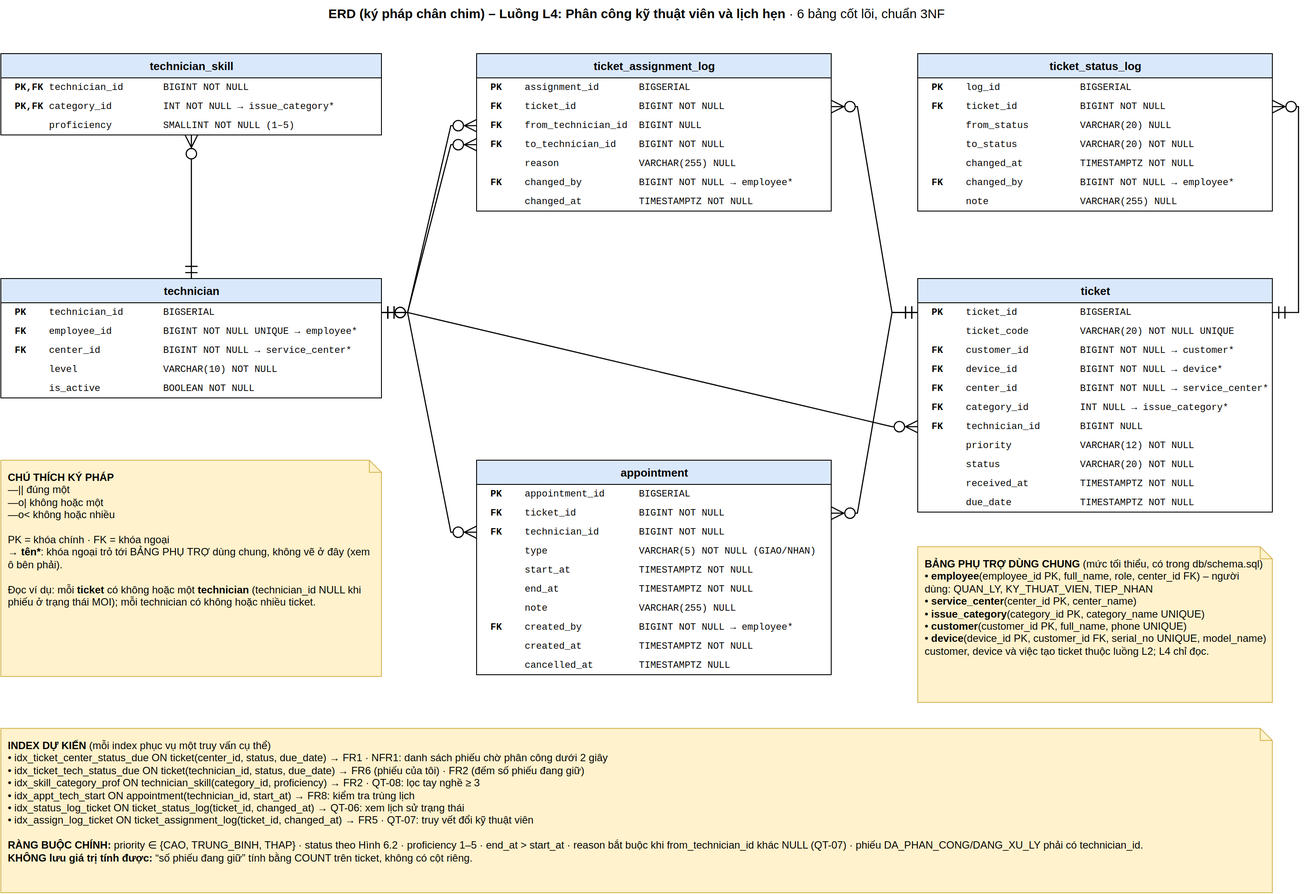
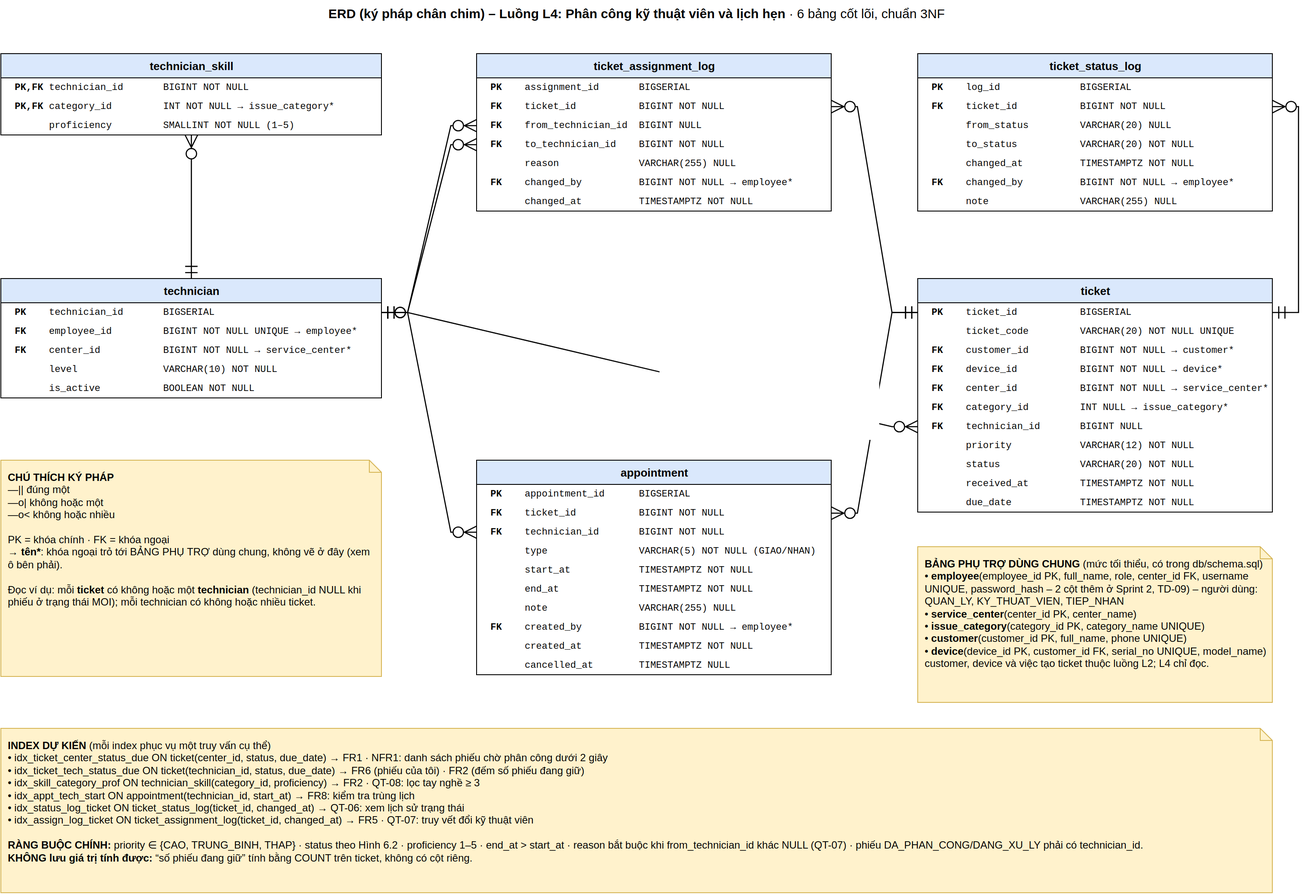
docs: README muc 2 3 5 6, TD-09 den TD-16, ket qua chay buoi 10

Changed region(s): [[0.6812, 0.6193, 0.9598, 0.7431]]

diff --git a/README.md b/README.md
@@ -8,56 +8,78 @@
 Hệ thống giúp quản lý trung tâm bảo hành của Mekong Mobile phân công phiếu bảo hành cho kỹ thuật viên theo tay nghề, trung tâm và khối lượng công việc hiện tại, thay cho việc phân công thủ công theo trí nhớ. Kỹ thuật viên xem được phiếu của mình theo hạn cam kết; nhân viên tiếp nhận đặt lịch hẹn giao – nhận máy không trùng lịch.
 
 ## 2. Yêu cầu môi trường
-- Node.js 20 LTS trở lên (đang dùng v24)
+- Node.js 20 LTS trở lên (đang dùng v24), npm 10
 - PostgreSQL 16 (đang chạy, biết mật khẩu user `postgres`)
-- Biến môi trường: xem `.env.example`
+- Trình duyệt Chrome / Edge bản mới (giao diện React)
+- Biến môi trường: xem `.env.example` (`DB_*`, `JWT_SECRET`, `DEMO_PASSWORD`, `PORT`)
 
 ## 3. Hướng dẫn chạy
 Chạy lần lượt từng lệnh trong thư mục gốc của repo (Git Bash):
 
-1. Cài thư viện: `npm install`
-2. Tạo file cấu hình: `cp .env.example .env` rồi mở `.env`, điền `DB_PASSWORD` (mật khẩu PostgreSQL) và `JWT_SECRET` (chuỗi bất kỳ)
-3. Tạo cơ sở dữ liệu trống: `psql -U postgres -c "CREATE DATABASE cdtn1_l4"`
-4. Tạo bảng: `npm run db:migrate`
-5. Nạp dữ liệu mẫu: `npm run db:seed`
-6. Chạy kiểm thử: `npm test`
-7. Chạy API: `npm start` → mở http://localhost:3000/health
+1. Cài thư viện API: `npm install`
+2. Cài thư viện giao diện: `npm run web:install`
+3. Tạo file cấu hình: `cp .env.example .env` rồi mở `.env`, điền `DB_PASSWORD` (mật khẩu PostgreSQL) và `JWT_SECRET` (chuỗi bất kỳ)
+4. Tạo cơ sở dữ liệu trống (tên lấy từ `DB_NAME` trong `.env`): `npm run db:create`
+5. Tạo bảng: `npm run db:migrate`
+6. Nạp dữ liệu mẫu Mekong Mobile và tài khoản: `npm run db:seed`
+7. Chạy kiểm thử: `npm test` (không cần PostgreSQL) và `npm run test:db` (test đồng thời, cần PostgreSQL)
+8. Build giao diện: `npm run web:build`
+9. Chạy: `npm start` → mở http://localhost:3000 (giao diện) · http://localhost:3000/health (kiểm tra API)
 
-Bước 4 và 5 chạy lại lần hai không lỗi và không nhân đôi dữ liệu (migration đã chạy được ghi trong bảng `schema_migrations`; seed dùng `ON CONFLICT DO NOTHING`).
+**Dữ liệu mẫu:** 6 trung tâm, 38 kỹ thuật viên, 381 khách hàng, 154 phiếu. Khách hàng lấy từ `data/mau/customers_raw.csv` (dữ liệu mẫu Mekong Mobile trong repo mẫu của giảng viên), đã chuẩn hóa số điện thoại và loại trùng; xem `data/README.md`. Thời điểm tiếp nhận tính lùi từ lúc nạp nên danh sách luôn có phiếu sắp hạn và quá hạn.
 
-**Lấy token để gọi API** (mở cửa sổ Git Bash thứ hai, API vẫn chạy ở cửa sổ đầu):
+Bước 5 và 6 chạy lại lần hai không lỗi và không nhân đôi dữ liệu (migration đã chạy được ghi trong bảng `schema_migrations`; seed dùng `ON CONFLICT DO NOTHING`).
+Muốn đưa dữ liệu mẫu về như ban đầu (ví dụ sau khi đã bấm thử phân công): `npm run db:reset -- --yes` – lệnh này **xóa toàn bộ dữ liệu** của CSDL `cdtn1_l4` rồi migrate + seed lại, và từ chối chạy nếu tên CSDL không bắt đầu bằng `cdtn1`.
+
+Khi sửa giao diện: chạy `npm start` ở một cửa sổ và `npm run web:dev` ở cửa sổ khác, mở http://localhost:5173 (tự tải lại khi sửa mã, `/api` được chuyển sang cổng 3000).
+
+**Tài khoản mẫu** (mật khẩu chung là giá trị `DEMO_PASSWORD` trong `.env`):
+
+| Tên đăng nhập | Họ tên | Vai trò | Dùng để thử |
+|---|---|---|---|
+| `tram` | Trần Thị Trâm | QUAN_LY – Quận 10 | Danh sách phiếu, gợi ý, phân công, đổi kỹ thuật viên |
+| `lan` | Nguyễn Thị Lan | TIEP_NHAN – Quận 10 | Đặt lịch hẹn, thấy số điện thoại dạng che |
+| `dung`, `khoi`, `tung` | Lê Văn Dũng, Phạm Minh Khôi, Võ Thanh Tùng | KY_THUAT_VIEN – Quận 10 | Phiếu của tôi |
+| `phat` | Huỳnh Văn Phát | KY_THUAT_VIEN, chưa có hồ sơ kỹ thuật viên | Thử báo lỗi 403 |
+| `hanh` | Đỗ Thị Hạnh | QUAN_LY – Cần Thơ | Thử QT-14 (không thấy phiếu Quận 10) |
+| `ql_ag`, `ql_dt`, `ql_vl`, `ql_kg` · `tn_ct`, `tn_ag`, `tn_dt`, `tn_vl`, `tn_kg` | (sinh từ dữ liệu mẫu) | QUAN_LY / TIEP_NHAN các trung tâm An Giang, Đồng Tháp, Vĩnh Long, Kiên Giang, Cần Thơ | Thử dữ liệu từng trung tâm |
+
+**Gọi API bằng curl** (lấy token bằng đăng nhập, hoặc `npm run token -- <mã nhân viên>`):
 
 ```bash
-npm run token -- 1   # Trần Thị Trâm – QUAN_LY, trung tâm Quận 10
-npm run token -- 2   # Nguyễn Thị Lan – TIEP_NHAN, trung tâm Quận 10
-npm run token -- 7   # Đỗ Thị Hạnh – QUAN_LY, trung tâm Cần Thơ (thử QT-14)
+curl -X POST -H "Content-Type: application/json" -d '{"username":"tram","password":"<DEMO_PASSWORD>"}' http://localhost:3000/api/auth/login
+curl -H "Authorization: Bearer <TOKEN>" "http://localhost:3000/api/tickets?status=MOI"
+curl -H "Authorization: Bearer <TOKEN>" http://localhost:3000/api/tickets/1/technician-suggestions
+curl -X POST -H "Content-Type: application/json" -H "Authorization: Bearer <TOKEN>" -d '{"technicianId":1}' http://localhost:3000/api/tickets/1/assignment
 ```
 
-**Ví dụ gọi API** (thay `<TOKEN>` bằng chuỗi vừa in ra):
+**Màn hình (theo wireframe BT1, `docs/design.md` mục 3):**
 
-```bash
-# Danh sách kỹ thuật viên của trung tâm (quản lý)
-curl -H "Authorization: Bearer <TOKEN>" http://localhost:3000/api/technicians
-# Đặt lịch hẹn cho phiếu 3 (tiếp nhận) – trùng lịch 09:00-09:45 sẽ bị từ chối 409
-curl -X POST -H "Content-Type: application/json" -H "Authorization: Bearer <TOKEN>" \
-  -d '{"type":"NHAN","startAt":"2026-12-01T10:00:00+07:00","endAt":"2026-12-01T10:30:00+07:00"}' \
-  http://localhost:3000/api/tickets/3/appointments
-```
+| Màn hình | Đường dẫn | Vai trò | Wireframe · Endpoint |
+|---|---|---|---|
+| Đăng nhập | `/login` | mọi vai trò | E0 |
+| Danh sách phiếu (chờ phân công / đã phân công) | `/tickets` | QUAN_LY | Wireframe 1 · E1 |
+| Phân công / đổi kỹ thuật viên | `/tickets/:id/assign` | QUAN_LY | Wireframe 2 · E2, E3, E4 |
+| Chọn phiếu và đặt lịch hẹn | `/appointments`, `/tickets/:id/appointment` | TIEP_NHAN | Wireframe 3 · E1, E6 |
+| Phiếu của tôi | `/my-tickets` | KY_THUAT_VIEN | E5 |
 
-**Endpoint đã có (Sprint 1):**
+Mỗi màn hình được bọc bằng component `DataState` (`web/src/components/DataState.jsx`), đủ ba trạng thái: đang tải (khung xương), rỗng (câu giải thích + gợi ý), lỗi (chuyện gì · làm gì tiếp + nút Thử lại). Token lưu trong `sessionStorage`, hết hạn hoặc sai thì tự về trang đăng nhập.
+
+**Endpoint đã có:**
 
 | Phương thức · Đường dẫn | Vai trò | Chức năng |
 |---|---|---|
-| `GET /api/technicians` | QUAN_LY | Danh sách kỹ thuật viên của trung tâm (`?includeInactive=true` để xem cả người đã ngừng) |
-| `GET /api/technicians/:id` | QUAN_LY | Xem một kỹ thuật viên kèm tay nghề |
-| `POST /api/technicians` | QUAN_LY | Tạo hồ sơ kỹ thuật viên `{ employeeId, level, skills }` |
-| `PUT /api/technicians/:id` | QUAN_LY | Sửa `level`, `isActive`, `skills` |
-| `DELETE /api/technicians/:id` | QUAN_LY | Ngừng làm việc (xóa mềm, QT-13) |
+| `POST /api/auth/login` | không cần token | E0 – Đăng nhập, trả JWT |
+| `GET /api/tickets?status=MOI\|DA_PHAN_CONG` | QUAN_LY; TIEP_NHAN chỉ `DA_PHAN_CONG` | E1 – Danh sách phiếu theo hạn cam kết, phân trang |
+| `GET /api/tickets/:ticketId` | mọi vai trò cùng trung tâm | Xem một phiếu |
+| `GET /api/tickets/:ticketId/technician-suggestions` | QUAN_LY | E2 – Gợi ý kỹ thuật viên (QT-08) |
+| `POST /api/tickets/:ticketId/assignment` | QUAN_LY | E3 – Phân công (transaction, NFR3) |
+| `PUT /api/tickets/:ticketId/assignment` | QUAN_LY | E4 – Đổi kỹ thuật viên, bắt buộc lý do (QT-07) |
+| `GET /api/technicians/me/tickets` | KY_THUAT_VIEN | E5 – Phiếu của tôi |
+| `GET`, `POST`, `PUT`, `DELETE /api/technicians` | QUAN_LY | CRUD kỹ thuật viên (xóa mềm, QT-13) |
 | `POST /api/tickets/:ticketId/appointments` | TIEP_NHAN | E6 – Đặt lịch hẹn (RB-02, RB-03) |
 | `GET /api/tickets/:ticketId/appointments` | mọi vai trò | Lịch hẹn của một phiếu |
-| `GET /api/appointments/:id` | mọi vai trò | Xem một lịch hẹn |
-| `PUT /api/appointments/:id` | TIEP_NHAN, QUAN_LY | Đổi lịch (kiểm lại RB-02, RB-03) |
-| `DELETE /api/appointments/:id` | TIEP_NHAN, QUAN_LY | Hủy lịch hẹn (xóa mềm, QT-13) |
+| `GET`, `PUT`, `DELETE /api/appointments/:id` | TIEP_NHAN, QUAN_LY (sửa, hủy) | Xem / đổi lịch / hủy lịch hẹn (xóa mềm) |
 
 ## 4. Cấu trúc thư mục
 Mỗi lớp trong sơ đồ kiến trúc (`docs/architecture.drawio`) là một thư mục trong `src/`:
@@ -66,21 +88,28 @@ Mỗi lớp trong sơ đồ kiến trúc (`docs/architecture.drawio`) là một 
 - `src/validators/` – tầng 1: kiểm định dạng dữ liệu vào
 - `src/services/` – lớp nghiệp vụ: toàn bộ quy tắc QT/RB, không biết HTTP
 - `src/repositories/` – lớp truy cập dữ liệu: chỉ đọc/ghi PostgreSQL
+- `src/contracts/` – hợp đồng dữ liệu ở ranh giới service → trình bày (`toTicketView`, che số điện thoại QT-15)
 - `src/middlewares/` – xác thực JWT, phân quyền, dịch lỗi sang mã HTTP
 - `src/config/db.js` – kết nối PostgreSQL, hàm chạy transaction
 - `db/migrations/` – tạo bảng (đúng DDL đã nộp ở BT1, `db/schema.sql`); `db/seeds/` – dữ liệu mẫu
-- `scripts/` – migrate, seed, tạo token thử
-- `tests/` – unit test lớp service và validator (dùng repository giả, không cần CSDL)
+- `scripts/` – tạo CSDL, migrate, seed, sinh seed từ dữ liệu mẫu, reset, tạo token thử
+- `data/mau/` – dữ liệu mẫu Mekong Mobile (CSV thô) dùng sinh `db/seeds/003_mekong_mau.sql`
+- `web/` – giao diện React (Vite): `src/api/client.js` là lớp duy nhất gọi API, `src/pages/` là các màn hình
+- `tests/` – unit test (service, validator, hợp đồng, phân quyền; không cần CSDL); `tests/db/` – test đồng thời trên PostgreSQL thật
 - `docs/` – tài liệu BT1, `thay-doi-thiet-ke.md`, `ai-disclosure.md`
 
 ## 5. Kiểm thử
-`npm test` – 14 unit test, không cần PostgreSQL:
+`npm test` – 49 unit test, không cần PostgreSQL. `npm run test:db` – 4 test đồng thời trên PostgreSQL thật.
 
 | Loại | Test |
 |---|---|
-| Luồng đúng | TC-01 đặt lịch hẹn hợp lệ · TC-08 đổi lịch, hủy lịch · TC-09 tạo kỹ thuật viên |
-| Giá trị biên | TC-02 bắt đầu đúng lúc lịch cũ kết thúc · TC-03 trễ 1 phút bị trùng · TC-04 23:30 thứ Bảy / 00:00 Chủ nhật |
-| Dữ liệu sai | TC-05 thời gian sai, quá khứ · TC-06 phiếu chưa phân công · TC-07, TC-11 khác trung tâm · TC-10 sai vai trò · TC-12–TC-14 thiếu trường, sai định dạng |
+| Luồng đúng | TC-01 đặt lịch hẹn · TC-08 đổi lịch, hủy lịch · TC-09 tạo kỹ thuật viên · TC-16 phân công · TC-22 đổi kỹ thuật viên · TC-30 đăng nhập · TC-38 đúng vai trò được qua |
+| Giá trị biên | TC-02, TC-03 chạm biên RB-02 · TC-04 23:30 thứ Bảy / 00:00 Chủ nhật · TC-18 tay nghề đúng 3 / 2 (QT-08) · TC-33 pageSize 100 / 101 · TC-43 hai lịch nối tiếp đặt cùng lúc |
+| Dữ liệu sai | TC-05, TC-06, TC-07, TC-10–TC-14 · TC-17 phiếu đã phân công · TC-19, TC-20 kỹ thuật viên / phiếu không hợp lệ · TC-23 lý do dưới 5 ký tự · TC-31 sai mật khẩu · TC-34, TC-35, TC-39 |
+| Chuẩn hóa dữ liệu mẫu | TC-44 số điện thoại +84 / 84 / khoảng trắng · TC-45 giá trị biên 9 và 11 số, dữ liệu hỏng · TC-46 loại khách trùng |
+| Hợp đồng dữ liệu (buổi 9) | TC-26 đủ trường, ISO 8601 · TC-27 ý nghĩa của null · TC-28 che số điện thoại · TC-29 isOverdue |
+| Phân quyền (NFR2) | TC-07, TC-11, TC-20 khác trung tâm → 403 · TC-24, TC-25, TC-28 che số điện thoại · TC-36 sai vai trò → 403 · TC-37 không token → 401 |
+| Đồng thời (NFR3, `test:db`) | TC-40 hai quản lý phân công cùng phiếu → đúng 1 thành công · TC-41 năm lệnh cùng lúc · TC-42 hai lịch chồng lấn cùng lúc → đúng 1 thành công |
 
 ## 6. Trạng thái hiện tại
 - [x] Khởi tạo repo, cấu trúc thư mục, smoke test `/health` (buổi 2)
@@ -89,5 +118,10 @@ Mỗi lớp trong sơ đồ kiến trúc (`docs/architecture.drawio`) là một 
 - [x] Kiến trúc, ERD + DDL, wireframe – hoàn tất Bài tập 1 (buổi 5–6)
 - [x] Sprint 1 (buổi 8): migration + seed, CRUD kỹ thuật viên và lịch hẹn, RB-02, RB-03, 14 unit test
 - [x] Buổi 8: đọc phản hồi BT1 (9.5/10), ghi quyết định điều chỉnh vào `docs/thay-doi-thiet-ke.md` (TD-01 → TD-03); kết quả gọi thử API lưu ở `docs/ket-qua-goi-api-buoi8.md`
-- [ ] Sprint 2: danh sách phiếu chờ phân công (E1), gợi ý kỹ thuật viên (E2), phân công / đổi kỹ thuật viên (E3, E4)
-- [ ] Màn hình React gọi API (3 màn hình theo wireframe), tag `v0.2` (hạn cuối buổi 12)
+- [x] Buổi 10 (Sprint 2): đăng nhập (TD-09), E1–E5, hợp đồng dữ liệu `toTicketView` (TD-13), test phân quyền và test đồng thời
+- [x] Buổi 10: giao diện React 5 màn hình theo 3 wireframe, đủ ba trạng thái đang tải / rỗng / lỗi
+- [x] Buổi 10: luồng chính chạy end-to-end cục bộ qua API (đăng nhập → danh sách → gợi ý → phân công → đặt lịch → phiếu của tôi) – kết quả ở `docs/ket-qua-buoi10.md`
+- [ ] Ảnh chụp giao diện chạy trên máy cá nhân lưu vào `docs/img/`
+- [x] Dữ liệu mẫu Mekong Mobile theo quy mô case study: 6 trung tâm, 38 kỹ thuật viên, 381 khách hàng, 154 phiếu (TD-16)
+- [ ] Phép thử "thư mục trống": clone repo sang thư mục mới, chạy đúng mục 3
+- [ ] Rà soát, sửa lỗi theo buổi 11; báo cáo BT2 kèm đủ DDL 6 bảng (TD-02); tag `v0.2` (hạn cuối buổi 12)

diff --git a/docs/ket-qua-buoi10.md b/docs/ket-qua-buoi10.md
@@ -1,0 +1,132 @@
+# Kết quả buổi 10 – luồng chính chạy end-to-end cục bộ
+
+Chạy ngày 24/10/2026 10:03 trên máy cá nhân (Node v24.18.0, PostgreSQL 16). Dữ liệu mẫu Mekong Mobile nạp bằng `npm run db:reset` (migration 001, 002 + seed 001–003: 6 trung tâm, 38 kỹ thuật viên, 381 khách hàng, 154 phiếu). Token và mật khẩu được thay bằng `<...>`.
+
+Luồng chính (UC1 → UC2 → UC3 → UC6 → UC5): quản lý đăng nhập → xem phiếu chờ phân công → xem gợi ý → phân công → tiếp nhận đặt lịch hẹn → kỹ thuật viên xem phiếu của mình.
+
+## 1. Gọi API theo luồng chính
+
+### E0 – Đăng nhập quản lý (tram)
+```
+$ curl -X POST -H Content-Type: application/json -d {"username":"tram","password":"<DEMO_PASSWORD>"} http://localhost:3000/api/auth/login
+{"data":{"token":"<TOKEN>","user":{"employeeId":1,"fullName":"Trần Thị Trâm","role":"QUAN_LY","centerId":1}}}
+[HTTP 200]
+```
+
+### E0 – Sai mật khẩu → 401
+```
+$ curl -X POST -H Content-Type: application/json -d {"username":"tram","password":"sai-mat-khau"} http://localhost:3000/api/auth/login
+{"error":{"code":"INVALID_CREDENTIALS","message":"Tên đăng nhập hoặc mật khẩu không đúng","details":[]}}
+[HTTP 401]
+```
+
+### E1 – Phiếu chờ phân công của trung tâm Quận 10, trang 1 (sắp theo hạn cam kết, total = tổng số phiếu)
+```
+$ curl -H Authorization: Bearer <TOKEN_QUAN_LY> http://localhost:3000/api/tickets?status=MOI&pageSize=5
+{"data":{"items":[{"ticketId":1,"ticketCode":"BH-000118/2026","customerName":"Trần Văn Bình","customerPhone":"0912345678","deviceName":"Mekong Tab 8","category":"PIN","priority":"TRUNG_BINH","status":"MOI","receivedAt":"2026-10-05T14:30:00+07:00","dueDate":"2026-10-08T14:30:00+07:00","technician":null,"isOverdue":true},{"ticketId":2,"ticketCode":"BH-000120/2026","customerName":"Lê Thị Mai","customerPhone":"0987654321","deviceName":"Mekong M3","category":null,"priority":"THAP","status":"MOI","receivedAt":"2026-10-05T10:00:00+07:00","dueDate":"2026-10-10T10:00:00+07:00","technician":null,"isOverdue":true},{"ticketId":127,"ticketCode":"BH-000226/2026","customerName":"Phạm Anh Oanh","customerPhone":"0377840879","deviceName":"Mekong A12 64GB","category":"MAN_HINH","priority":"CAO","status":"MOI","receivedAt":"2026-10-21T17:03:50+07:00","dueDate":"2026-10-22T17:03:50+07:00","technician":null,"isOverdue":true},{"ticketId":125,"ticketCode":"BH-000224/2026","customerName":"Phạm Minh Linh","customerPhone":"0331208113","deviceName":"Mekong Note 11 128GB","category":"MAN_HINH","priority":"CAO","status":"MOI","receivedAt":"2026-10-21T19:25:50+07:00","dueDate":"2026-10-22T19:25:50+07:00","technician":null,"isOverdue":true},{"ticketId":141,"ticketCode":"BH-000240/2026","customerName":"Dương Gia Mai","customerPhone":"0889451333","deviceName":"Mekong A32 128GB","category":"NUOC_VAO","priority":"CAO","status":"MOI","receivedAt":"2026-10-22T11:55:50+07:00","dueDate":"2026-10-23T11:55:50+07:00","technician":null,"isOverdue":true}],"page":1,"pageSize":5,"total":21}}
+[HTTP 200]
+```
+
+### E2 – Gợi ý kỹ thuật viên cho phiếu 1 (nhóm PIN, tay nghề ≥ 3)
+```
+$ curl -H Authorization: Bearer <TOKEN_QUAN_LY> http://localhost:3000/api/tickets/1/technician-suggestions
+{"data":{"ticketId":1,"ticketCode":"BH-000118/2026","category":"PIN","suggestions":[{"technicianId":102,"fullName":"Bùi Hữu Tài","level":"TRUNG_CAP","proficiency":4,"openTicketCount":1},{"technicianId":1,"fullName":"Lê Văn Dũng","level":"CAO_CAP","proficiency":3,"openTicketCount":2},{"technicianId":101,"fullName":"Phan Hoàng Trí","level":"CAO_CAP","proficiency":5,"openTicketCount":3}]}}
+[HTTP 200]
+```
+
+### E2 – Phiếu 2 chưa có nhóm sự cố → 409
+```
+$ curl -H Authorization: Bearer <TOKEN_QUAN_LY> http://localhost:3000/api/tickets/2/technician-suggestions
+{"error":{"code":"TICKET_NOT_CATEGORIZED","message":"Phiếu BH-000120/2026 chưa có nhóm sự cố nên chưa gợi ý được kỹ thuật viên","details":[]}}
+[HTTP 409]
+```
+
+### E3 – Phân công phiếu 1 cho kỹ thuật viên 1 → 201
+```
+$ curl -X POST -H Content-Type: application/json -H Authorization: Bearer <TOKEN_QUAN_LY> -d {"technicianId":1} http://localhost:3000/api/tickets/1/assignment
+{"data":{"ticketId":1,"ticketCode":"BH-000118/2026","status":"DA_PHAN_CONG","technician":{"technicianId":1,"fullName":"Lê Văn Dũng"},"assignedAt":"2026-10-24T10:03:14+07:00"}}
+[HTTP 201]
+```
+
+### E3 – Phân công lại phiếu 1 → 409 (RB-01)
+```
+$ curl -X POST -H Content-Type: application/json -H Authorization: Bearer <TOKEN_QUAN_LY> -d {"technicianId":2} http://localhost:3000/api/tickets/1/assignment
+{"error":{"code":"TICKET_ALREADY_ASSIGNED","message":"Phiếu BH-000118/2026 đã được phân công cho Lê Văn Dũng","details":[]}}
+[HTTP 409]
+```
+
+### E4 – Đổi kỹ thuật viên thiếu lý do → 400
+```
+$ curl -X PUT -H Content-Type: application/json -H Authorization: Bearer <TOKEN_QUAN_LY> -d {"technicianId":3} http://localhost:3000/api/tickets/3/assignment
+{"error":{"code":"VALIDATION_ERROR","message":"Dữ liệu không hợp lệ ở các trường: reason","details":[{"field":"reason","issue":"bắt buộc, từ 5 đến 255 ký tự"}]}}
+[HTTP 400]
+```
+
+### E1 – Tiếp nhận xem phiếu đã phân công (số điện thoại dạng che, QT-15)
+```
+$ curl -H Authorization: Bearer <TOKEN_TIEP_NHAN> http://localhost:3000/api/tickets?status=DA_PHAN_CONG
+{"data":{"items":[{"ticketId":3,"ticketCode":"BH-000123/2026","customerName":"Nguyễn Thị Hoa","customerPhone":"090****567","deviceName":"Mekong M5","category":"MAN_HINH","priority":"CAO","status":"DA_PHAN_CONG","receivedAt":"2026-10-05T08:15:00+07:00","dueDate":"2026-10-06T08:15:00+07:00","technician":{"technicianId":2,"fullName":"Phạm Minh Khôi"},"isOverdue":true},{"ticketId":1,"ticketCode":"BH-000118/2026","customerName":"Trần Văn Bình","customerPhone":"091****678","deviceName":"Mekong Tab 8","category":"PIN","priority":"TRUNG_BINH","status":"DA_PHAN_CONG","receivedAt":"2026-10-05T14:30:00+07:00","dueDate":"2026-10-08T14:30:00+07:00","technician":{"technicianId":1,"fullName":"Lê Văn Dũng"},"isOverdue":true},{"ticketId":101,"ticketCode":"BH-000200/2026","customerName":"Trần Tuấn Cường","customerPhone":"034****238","deviceName":"Mekong S9 256GB","category":"MAN_HINH","priority":"CAO","status":"DA_PHAN_CONG","receivedAt":"2026-10-11T14:25:50+07:00","dueDate":"2026-10-12T14:25:50+07:00","technician":{"technicianId":3,"fullName":"Võ Thanh Tùng"},"isOverdue":true},{"ticketId":120,"ticketCode":"BH-000219/2026","customerName":"Phạm Minh An","customerPhone":"079****248","deviceName":"Mekong Tab 10","category":"NUOC_VAO","priority":"CAO","status":"DA_PHAN_CONG","receivedAt":"2026-10-12T09:43:50+07:00","dueDate":"2026-10-13T09:43:50+07:00","technician":{"technicianId":104,"fullName":"Bùi Minh Lâm"},"isOverdue":true},{"ticketId":103,"ticketCode":"BH-000202/2026","customerName":"Nguyễn Văn Yến","customerPhone":"076****911","deviceName":"Mekong S9 256GB","category":"SAC","priority":"TRUNG_BINH","status":"DA_PHAN_CONG","receivedAt":"2026-10-10T13:34:50+07:00","dueDate":"2026-10-13T13:34:50+07:00","technician":{"technicianId":3,"fullName":"Võ Thanh Tùng"},"isOverdue":true},{"ticketId":134,"ticketCode":"BH-000233/2026","customerName":"Võ Thanh Trung","customerPhone":"077****321","deviceName":"Mekong Tab 8","category":"PHAN_MEM","priority":"THAP","status":"DA_PHAN_CONG","receivedAt":"2026-10-10T17:42:50+07:00","dueDate":"2026-10-15T17:42:50+07:00","technician":{"technicianId":2,"fullName":"Phạm Minh Khôi"},"isOverdue":true},{"ticketId":104,"ticketCode":"BH-000203/2026","customerName":"Dương Kim Linh","customerPhone":"032****028","deviceName":"Mekong Tab 8","category":"NUOC_VAO","priority":"CAO","status":"DA_PHAN_CONG","receivedAt":"2026-10-15T03:56:50+07:00","dueDate":"2026-10-16T03:56:50+07:00","technician":{"technicianId":104,"fullName":"Bùi Minh Lâm"},"isOverdue":true},{"ticketId":140,"ticketCode":"BH-000239/2026","customerName":"Lê Bảo Tâm","customerPhone":"088****061","deviceName":"Mekong A32 128GB","category":"SAC","priority":"TRUNG_BINH","status":"DA_PHAN_CONG","receivedAt":"2026-10-15T03:53:50+07:00","dueDate":"2026-10-18T03:53:50+07:00","technician":{"technicianId":3,"fullName":"Võ Thanh Tùng"},"isOverdue":true},{"ticketId":110,"ticketCode":"BH-000209/2026","customerName":"Đặng Thị Thắng","customerPhone":"039****778","deviceName":"Mekong Tab 8","category":"SAC","priority":"TRUNG_BINH","status":"DA_PHAN_CONG","receivedAt":"2026-10-16T17:57:50+07:00","dueDate":"2026-10-19T17:57:50+07:00","technician":{"technicianId":3,"fullName":"Võ Thanh Tùng"},"isOverdue":true},{"ticketId":108,"ticketCode":"BH-000207/2026","customerName":"Phan Hữu An","customerPhone":"033****698","deviceName":"Mekong Note 11 128GB","category":"NUOC_VAO","priority":"CAO","status":"DA_PHAN_CONG","receivedAt":"2026-10-19T06:21:50+07:00","dueDate":"2026-10-20T06:21:50+07:00","technician":{"technicianId":104,"fullName":"Bùi Minh Lâm"},"isOverdue":true},{"ticketId":113,"ticketCode":"BH-000212/2026","customerName":"Hồ Minh Vy","customerPhone":"076****020","deviceName":"Mekong Tab 10","category":"PHAN_MEM","priority":"THAP","status":"DA_PHAN_CONG","receivedAt":"2026-10-15T06:39:50+07:00","dueDate":"2026-10-20T06:39:50+07:00","technician":{"technicianId":103,"fullName":"Huỳnh Hữu Long"},"isOverdue":true},{"ticketId":133,"ticketCode":"BH-000232/2026","customerName":"Lê Đức Vinh","customerPhone":"093****066","deviceName":"Mekong A32 128GB","category":"PIN","priority":"TRUNG_BINH","status":"DA_PHAN_CONG","receivedAt":"2026-10-17T15:54:50+07:00","dueDate":"2026-10-20T15:54:50+07:00","technician":{"technicianId":101,"fullName":"Phan Hoàng Trí"},"isOverdue":true},{"ticketId":142,"ticketCode":"BH-000241/2026","customerName":"Bùi Văn Hải","customerPhone":"035****648","deviceName":"Mekong M5","category":"PHAN_MEM","priority":"THAP","status":"DA_PHAN_CONG","receivedAt":"2026-10-18T14:41:50+07:00","dueDate":"2026-10-23T14:41:50+07:00","technician":{"technicianId":2,"fullName":"Phạm Minh Khôi"},"isOverdue":true},{"ticketId":117,"ticketCode":"BH-000216/2026","customerName":"Phạm Văn Dung","customerPhone":"079****740","deviceName":"Mekong Note 11 128GB","category":"PHAN_MEM","priority":"THAP","status":"DA_PHAN_CONG","receivedAt":"2026-10-19T13:56:50+07:00","dueDate":"2026-10-24T13:56:50+07:00","technician":{"technicianId":2,"fullName":"Phạm Minh Khôi"},"isOverdue":false}],"page":1,"pageSize":20,"total":14}}
+[HTTP 200]
+```
+
+### E6 – Tiếp nhận đặt lịch giao máy cho phiếu 1 → 201
+```
+$ curl -X POST -H Content-Type: application/json -H Authorization: Bearer <TOKEN_TIEP_NHAN> -d {"type":"GIAO","startAt":"2026-12-02T09:00:00+07:00","endAt":"2026-12-02T09:30:00+07:00","note":"Khách lấy máy buổi sáng"} http://localhost:3000/api/tickets/1/appointments
+{"data":{"appointmentId":5,"ticketId":1,"ticketCode":"BH-000118/2026","technician":{"technicianId":1,"fullName":"Lê Văn Dũng"},"type":"GIAO","startAt":"2026-12-02T09:00:00+07:00","endAt":"2026-12-02T09:30:00+07:00","note":"Kh�ch l?y m�y bu?i s�ng","createdBy":"Nguyễn Thị Lan","cancelledAt":null}}
+[HTTP 201]
+```
+
+### E5 – Kỹ thuật viên Lê Văn Dũng xem phiếu của mình
+```
+$ curl -H Authorization: Bearer <TOKEN_KY_THUAT_VIEN> http://localhost:3000/api/technicians/me/tickets
+{"data":{"items":[{"ticketId":1,"ticketCode":"BH-000118/2026","customerName":"Trần Văn Bình","customerPhone":"091****678","deviceName":"Mekong Tab 8","category":"PIN","priority":"TRUNG_BINH","status":"DA_PHAN_CONG","receivedAt":"2026-10-05T14:30:00+07:00","dueDate":"2026-10-08T14:30:00+07:00","technician":{"technicianId":1,"fullName":"Lê Văn Dũng"},"isOverdue":true},{"ticketId":135,"ticketCode":"BH-000234/2026","customerName":"Hoàng Hoài Dung","customerPhone":"033****728","deviceName":"Mekong Tab 10","category":"MAN_HINH","priority":"CAO","status":"DANG_XU_LY","receivedAt":"2026-10-15T10:29:50+07:00","dueDate":"2026-10-16T10:29:50+07:00","technician":{"technicianId":1,"fullName":"Lê Văn Dũng"},"isOverdue":true},{"ticketId":129,"ticketCode":"BH-000228/2026","customerName":"Võ Quang Giang","customerPhone":"085****723","deviceName":"Mekong Tab 8","category":"MAN_HINH","priority":"CAO","status":"DANG_XU_LY","receivedAt":"2026-10-17T07:18:50+07:00","dueDate":"2026-10-18T07:18:50+07:00","technician":{"technicianId":1,"fullName":"Lê Văn Dũng"},"isOverdue":true}],"total":3}}
+[HTTP 200]
+```
+
+### QT-14 – Quản lý Cần Thơ xem phiếu của Quận 10 → 403
+```
+$ curl -H Authorization: Bearer <TOKEN_QUAN_LY_CAN_THO> http://localhost:3000/api/tickets/1
+{"error":{"code":"FORBIDDEN","message":"Phiếu thuộc trung tâm khác (QT-14)","details":[]}}
+[HTTP 403]
+```
+
+### NFR2 – Tiếp nhận gọi phân công → 403
+```
+$ curl -X POST -H Content-Type: application/json -H Authorization: Bearer <TOKEN_TIEP_NHAN> -d {"technicianId":1} http://localhost:3000/api/tickets/2/assignment
+{"error":{"code":"FORBIDDEN","message":"Chức năng này chỉ dành cho vai trò: QUAN_LY","details":[]}}
+[HTTP 403]
+```
+
+### Giao diện React được phục vụ cùng cổng
+```
+$ curl -o /dev/null http://localhost:3000/tickets
+
+[HTTP 200]
+```
+
+## 2. Unit test (`npm test`)
+```
+PASS tests/services/auth.service.test.js (6.311 s)
+PASS tests/routes/permissions.test.js (9.173 s)
+
+Test Suites: 8 passed, 8 total
+Tests:       49 passed, 49 total
+Snapshots:   0 total
+Time:        13.771 s
+Ran all test suites.
+```
+
+## 3. Test đồng thời trên PostgreSQL (`npm run test:db`)
+```
+PASS tests/db/concurrency.test.js
+  √ TC-40 (NFR3): hai quản lý phân công CÙNG một phiếu cho hai kỹ thuật viên khác nhau cùng lúc – đúng 1 lệnh thành công (177 ms)
+  √ TC-41 (NFR3): 5 lệnh phân công đồng thời cho một phiếu – vẫn đúng 1 thành công (83 ms)
+  √ TC-42 (RB-02): hai lịch hẹn CHỒNG LẤN đặt cùng lúc cho một kỹ thuật viên – đúng 1 lệnh thành công (25 ms)
+  √ TC-43 (RB-02, biên): hai lịch hẹn nối tiếp nhau (14:45 kết thúc, 14:45 bắt đầu) đặt cùng lúc – cả hai thành công (14 ms)
+
+Test Suites: 1 passed, 1 total
+Tests:       4 passed, 4 total
+Snapshots:   0 total
+Time:        0.879 s
+Ran all test suites.
+```

diff --git a/docs/thay-doi-thiet-ke.md b/docs/thay-doi-thiet-ke.md
@@ -62,3 +62,53 @@ File được nối tiếp ở BT2, BT3 (tiêu chí 3 của rubric: Nhất quán
 - **Quyết định:** Đọc lịch hẹn của kỹ thuật viên trong ngày rồi so sánh trong service, sau khi khóa dòng kỹ thuật viên (`SELECT … FOR UPDATE`) trong cùng transaction. Lịch bắt đầu đúng lúc lịch khác kết thúc KHÔNG bị coi là trùng.
 - **Lý do:** Giữ quy tắc nghiệp vụ ở lớp service, không giấu trong câu SQL; khóa để hai lịch đặt cùng lúc không lọt qua.
 - **Ảnh hưởng:** Làm rõ giá trị biên của RB-02 trong `docs/srs.md`.
+
+## 3. Thay đổi khi hiện thực Sprint 2 (buổi 10)
+
+### TD-09 Thêm tài khoản đăng nhập cho nhân viên
+- **Nguồn:** Buổi 10 yêu cầu frontend có xác thực đăng nhập; API contract BT1 ghi "cơ chế đăng nhập hoàn thiện ở BT2".
+- **Quyết định:** BỔ SUNG cột `employee.username` (duy nhất) và `employee.password_hash` bằng migration mới `db/migrations/002_auth.sql`; thêm `POST /api/auth/login` trả JWT. Mật khẩu băm bằng scrypt có sẵn của Node, không lưu mật khẩu gốc.
+- **Lý do:** Không sửa `001_init.sql` vì máy đã chạy file đó (bảng `schema_migrations` sẽ bỏ qua). Dùng scrypt thay vì bcrypt để không phải biên dịch thư viện native trên Windows. Sai tên và sai mật khẩu trả cùng một thông báo để không lộ tài khoản nào tồn tại.
+- **Ảnh hưởng:** 6 bảng cốt lõi không đổi; bảng phụ trợ `employee` thêm 2 cột – đã cập nhật ô ghi chú bảng phụ trợ trong `docs/erd.drawio` / `erd.png`, `docs/design.md` mục 2 và cuối `db/schema.sql`; seed `002_accounts.sql` gán tên đăng nhập cho 7 nhân viên mẫu, mật khẩu mẫu lấy từ `DEMO_PASSWORD` trong `.env`. `npm run token` vẫn dùng được để thử API bằng curl.
+
+### TD-10 Định dạng danh sách trả về
+- **Nguồn:** API contract BT1 ghi E1, E5 trả `items`, `page` ở cấp ngoài cùng, trong khi TD-06 đã chốt mọi phản hồi thành công bọc trong `{ data }`.
+- **Quyết định:** Thống nhất một kiểu: `{ "data": { "items": [...], "page", "pageSize", "total" } }`. E2 trả `{ "data": { ticketId, ticketCode, category, suggestions } }`.
+- **Lý do:** Frontend chỉ có MỘT chỗ đọc phản hồi (`web/src/api/client.js`), không phải rẽ nhánh theo từng endpoint.
+- **Ảnh hưởng:** Cập nhật `docs/api-contract.md` mục 6.
+
+### TD-11 Mở rộng E1 và thêm xem một phiếu
+- **Nguồn:** Wireframe 3 (đặt lịch hẹn) cần nhân viên tiếp nhận chọn được phiếu đã phân công; Wireframe 2 cần thông tin một phiếu.
+- **Quyết định:** E1 nhận `status=MOI` (chỉ QUAN_LY) hoặc `status=DA_PHAN_CONG` (QUAN_LY và TIEP_NHAN). Thêm `GET /api/tickets/{ticketId}` cho mọi vai trò cùng trung tâm.
+- **Lý do:** Không có hai endpoint này thì màn hình đặt lịch và màn hình phân công không hiện được thông tin phiếu.
+- **Ảnh hưởng:** Số điện thoại vẫn che theo QT-15 với vai trò không phải quản lý; QT-14 kiểm ở service.
+
+### TD-12 Gợi ý kỹ thuật viên dùng cả khi đổi người
+- **Nguồn:** Màn hình đổi kỹ thuật viên (UC4) cần danh sách người đủ điều kiện QT-08.
+- **Quyết định:** E2 nhận thêm phiếu ĐÃ PHÂN CÔNG và bỏ người đang giữ phiếu ra khỏi danh sách; phiếu ở trạng thái khác vẫn trả 409 `TICKET_NOT_ASSIGNABLE`.
+- **Lý do:** Dùng lại đúng một quy tắc lọc và xếp hạng (`rankSuggestions`) cho cả phân công và đổi người.
+- **Ảnh hưởng:** Thêm test TC-21b.
+
+### TD-13 Hợp đồng dữ liệu phiếu ở ranh giới service → trình bày
+- **Nguồn:** Buổi 9, phần 1 (phụ thuộc ngầm, hàm chuyển đổi ở ranh giới).
+- **Quyết định:** Mọi phiếu trả ra ngoài đều đi qua `src/contracts/ticket.contract.js` (`toTicketView`); che số điện thoại (QT-15) chỉ làm ở hàm này. Test hợp đồng TC-26 → TC-29.
+- **Lý do:** Đổi tên cột trong CSDL chỉ sửa một chỗ; không thể quên che số ở một màn hình nào đó.
+- **Ảnh hưởng:** Lớp trình bày (routes, React) không đọc tên cột của bảng.
+
+### TD-14 Giao diện React chạy chung cổng với API
+- **Nguồn:** Buổi 10 – frontend ≥ 3 màn hình kết nối API thật.
+- **Quyết định:** Frontend React + Vite trong thư mục `web/`, theo đúng 3 wireframe BT1 và thêm màn hình đăng nhập, màn hình "Phiếu của tôi". Sau `npm run web:build`, Express phục vụ luôn `web/dist` ở cổng 3000.
+- **Lý do:** Chạy một lệnh `npm start` là dùng được, không gặp lỗi CORS giữa hai cổng.
+- **Ảnh hưởng:** `src/app.js` thêm phần phục vụ file tĩnh; khi phát triển vẫn chạy được `npm run web:dev` (cổng 5173, chuyển tiếp `/api`).
+
+### TD-15 Test đồng thời chạy riêng trên PostgreSQL thật
+- **Nguồn:** Gợi ý của GV sau BT1 – test 2 lệnh phân công đồng thời (NFR3).
+- **Quyết định:** Phân công khóa dòng phiếu (`SELECT … FOR UPDATE`) rồi đọc lại trạng thái trong cùng transaction, cộng thêm `UPDATE … WHERE status = 'MOI'`. Test TC-40 → TC-43 trong `tests/db/`, chạy bằng `npm run test:db`.
+- **Lý do:** Test đồng thời phải chạy trên CSDL thật mới có ý nghĩa; tách riêng để `npm test` vẫn chạy được khi không có PostgreSQL.
+- **Ảnh hưởng:** Thêm `jest.db.config.js`.
+
+### TD-16 Dữ liệu mẫu theo quy mô case study
+- **Nguồn:** Thông báo buổi 10 – luồng chính chạy end-to-end trên bộ dữ liệu mẫu Mekong Mobile; seed tự soạn ở buổi 8 chỉ có 2 trung tâm, 4 phiếu.
+- **Quyết định:** BỔ SUNG `db/seeds/003_mekong_mau.sql`, sinh tự động bằng `scripts/gen-seed-mekong.js` từ `data/mau/customers_raw.csv` (dữ liệu mẫu Mekong Mobile trong repo mẫu của giảng viên): chuẩn hóa số điện thoại theo QT-02, loại bản ghi hỏng và khách trùng (402 → 378 khách). Quy mô theo case study: 6 trung tâm, 38 kỹ thuật viên, 150 phiếu mới; phiếu đã phân công luôn có kỹ thuật viên cùng trung tâm, tay nghề ≥ 3 (QT-08), kèm lịch sử trạng thái và lịch sử phân công.
+- **Lý do:** Danh sách, phân trang, gợi ý kỹ thuật viên chỉ kiểm tra được thật khi có đủ dữ liệu. Giữ nguyên seed 001 (ID 1–7) để các ví dụ trong README và test không đổi. Thời điểm tiếp nhận tính lùi từ `now()` lúc nạp nên luôn có phiếu sắp hạn và quá hạn.
+- **Ảnh hưởng:** Không đổi lược đồ. Thêm `npm run db:create` (tạo CSDL không cần lệnh psql), `npm run db:gen-seed`, test TC-44 → TC-46 cho hàm chuẩn hóa. Dữ liệu mẫu bỏ qua quy tắc "không tính Chủ nhật" khi tính hạn cam kết (việc tạo phiếu thuộc luồng L2).

diff --git a/docs/design.md b/docs/design.md
@@ -79,7 +79,7 @@ ERD dùng ký pháp chân chim, gồm 6 bảng cốt lõi của luồng L4. Các
 
 Kiểm ngược lại: FR1–FR9 đều có ít nhất một bảng phục vụ; không có bảng nào không gắn với yêu cầu.
 
-**Bảng phụ trợ dùng chung** (mức tối thiểu, không tính vào 6 bảng cốt lõi): `employee`, `service_center`, `issue_category`, `customer`, `device`. Các bảng `customer`, `device` và việc tạo `ticket` thuộc luồng L2; luồng L4 chỉ đọc.
+**Bảng phụ trợ dùng chung** (mức tối thiểu, không tính vào 6 bảng cốt lõi): `employee`, `service_center`, `issue_category`, `customer`, `device`. *Cập nhật Sprint 2 (TD-09): `employee` thêm `username` (duy nhất) và `password_hash` để đăng nhập, bằng migration `db/migrations/002_auth.sql`; 6 bảng cốt lõi không đổi.* Các bảng `customer`, `device` và việc tạo `ticket` thuộc luồng L2; luồng L4 chỉ đọc.
 
 ### 2.3. Quan hệ
 
